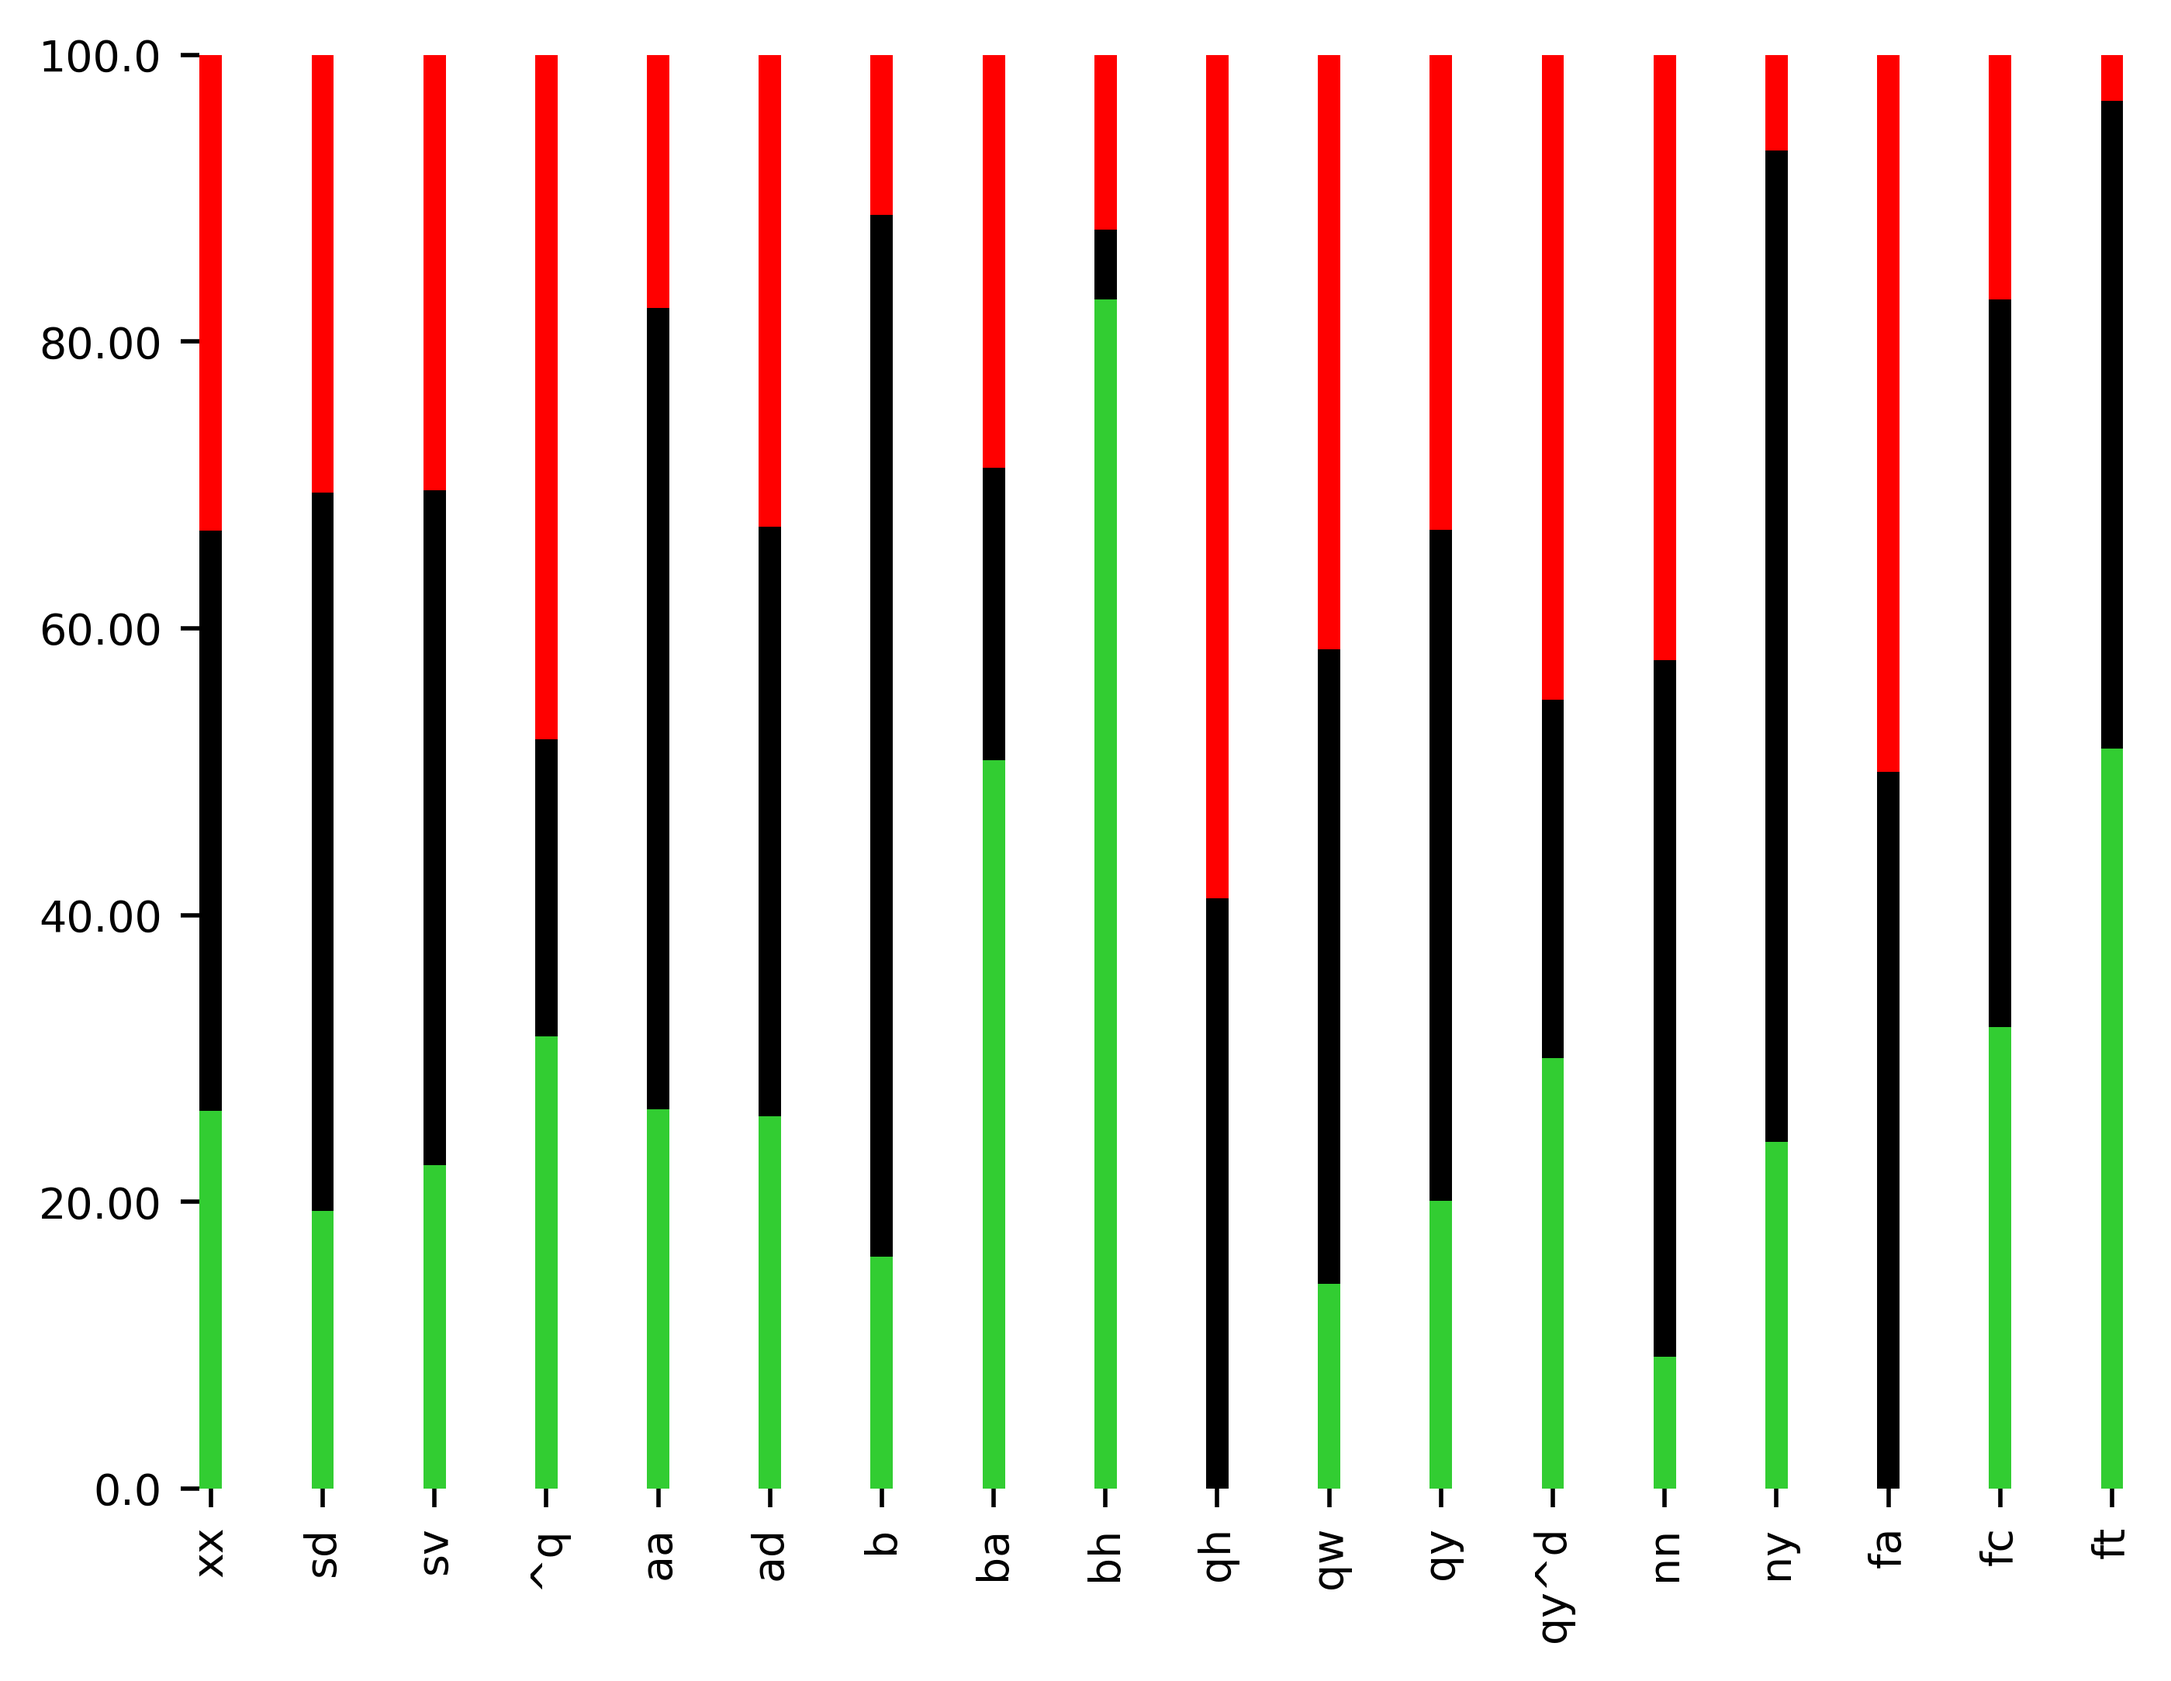
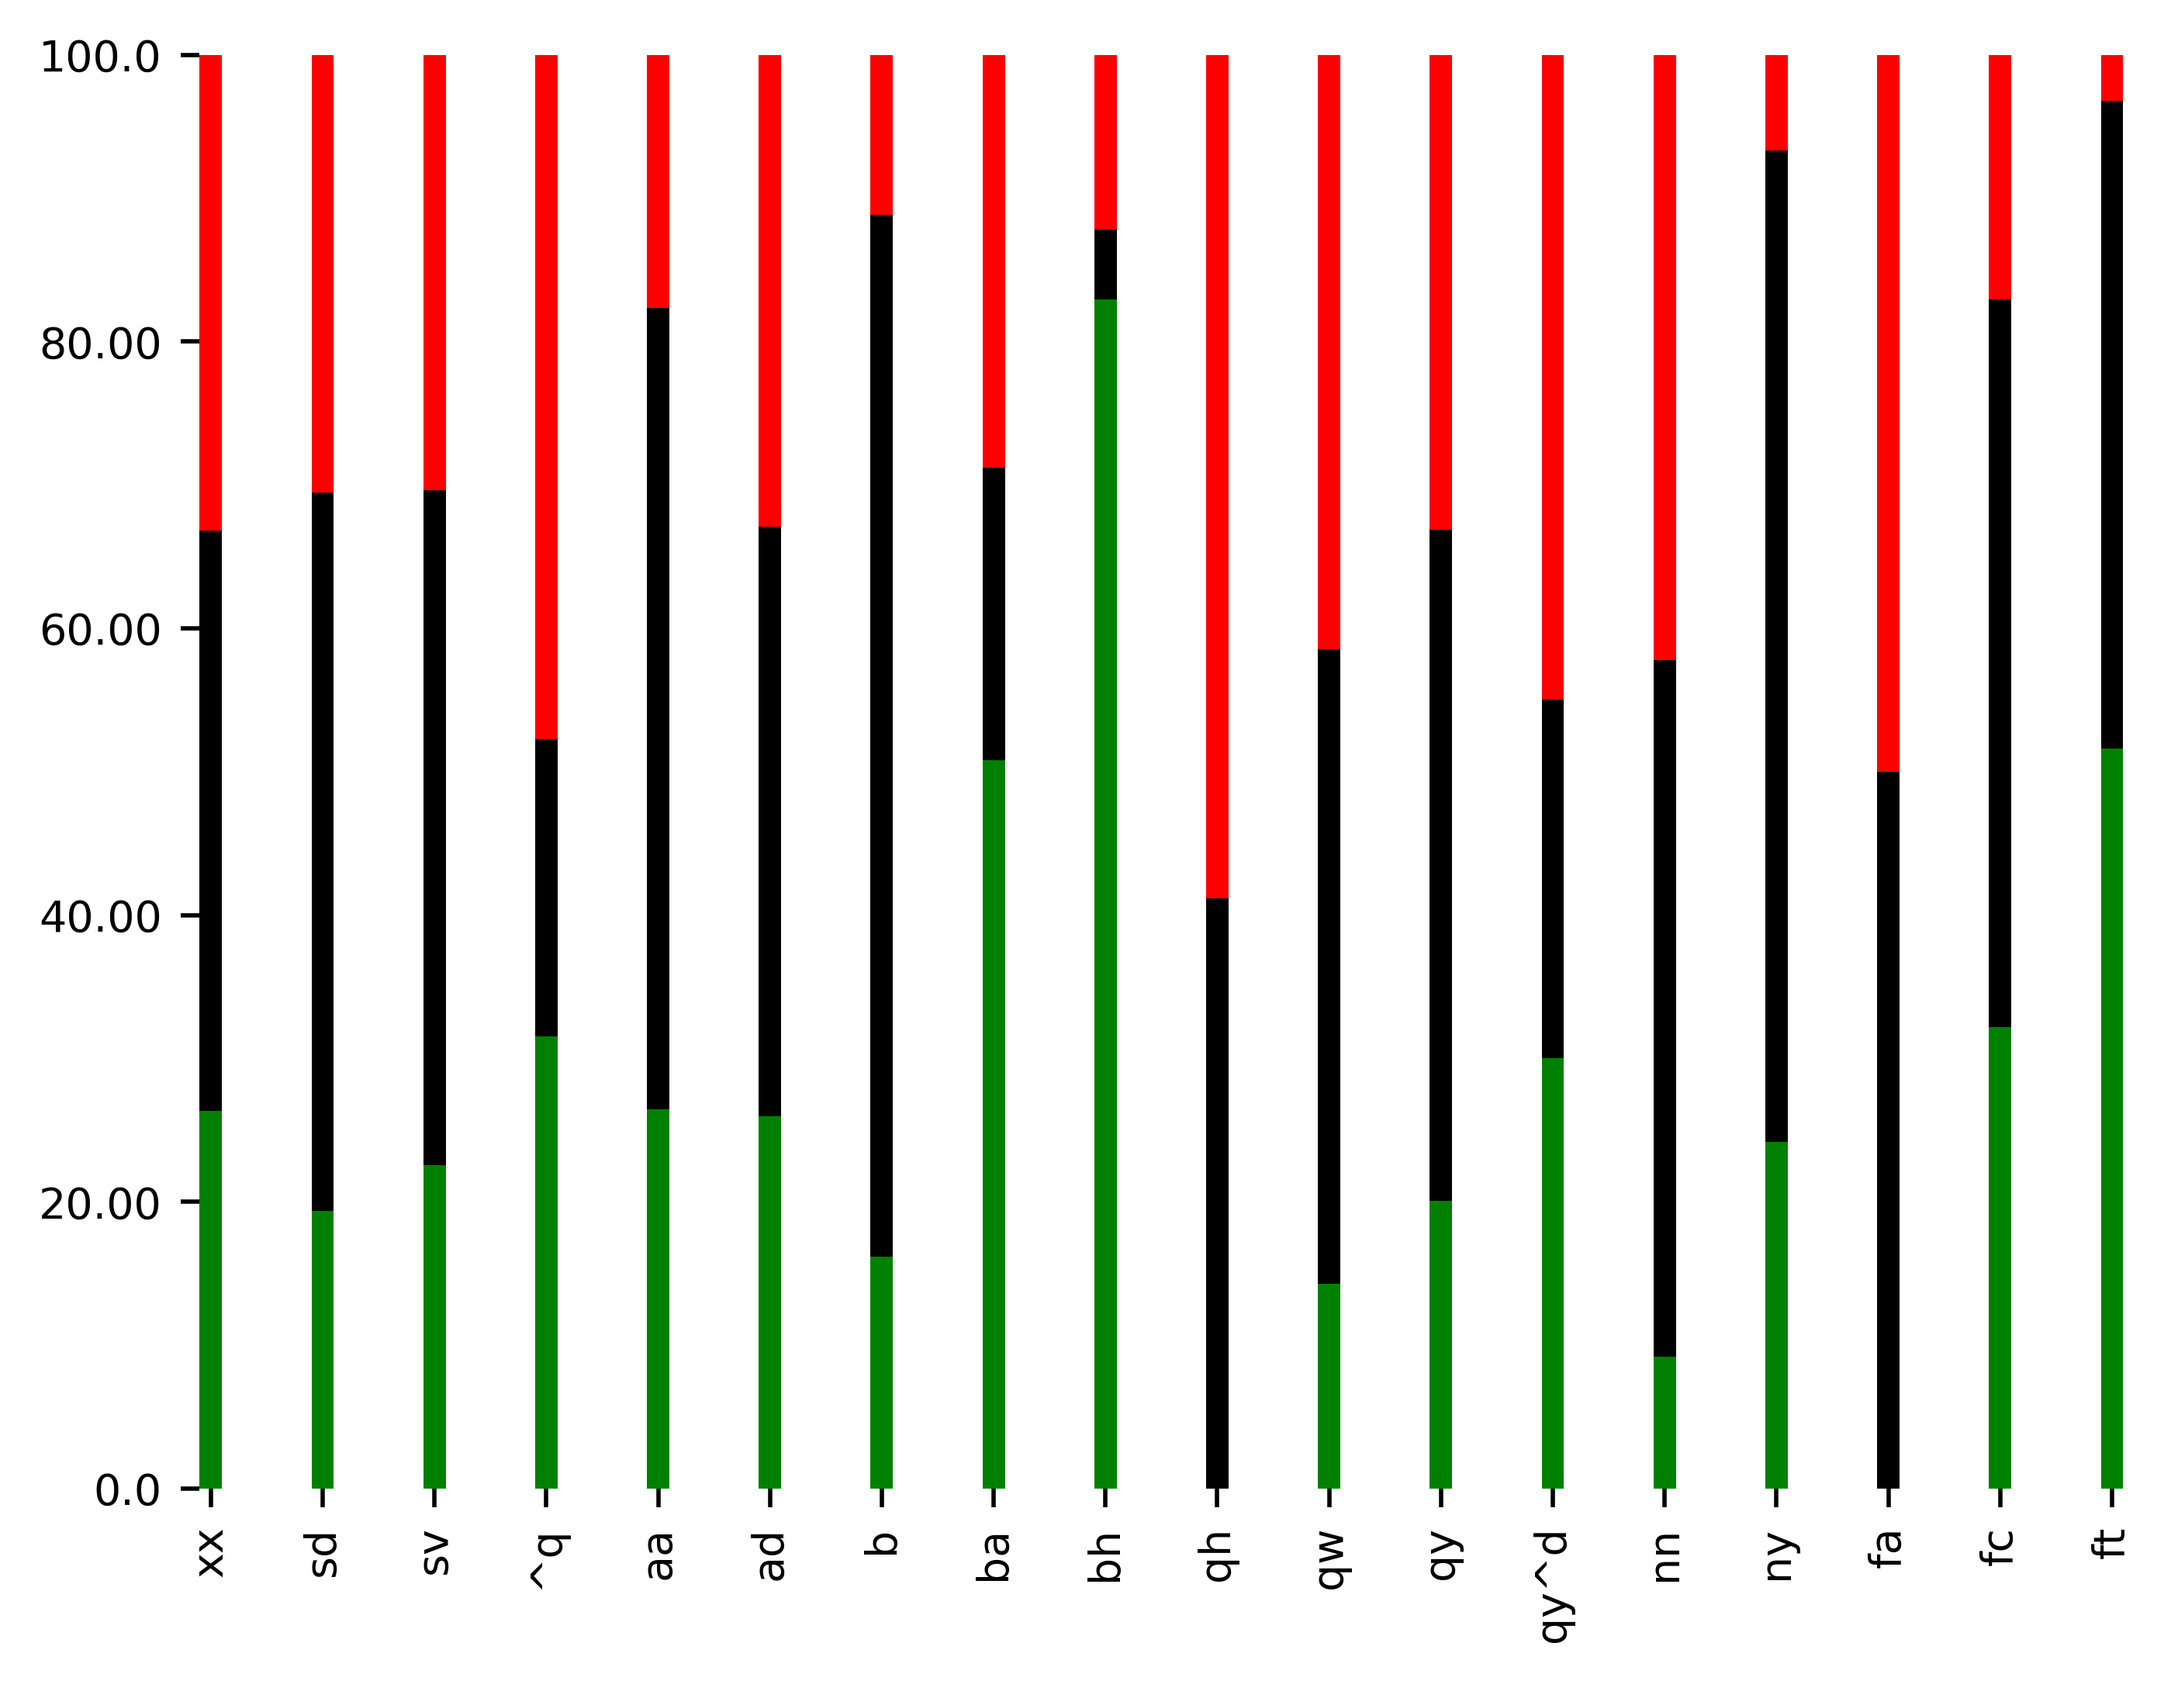
sankey graphs added to the repo

diff --git a/plot_utils/plot_functions.py b/plot_utils/plot_functions.py
@@ -128,15 +128,15 @@ def plotting_sankeys(colors_emo, emotions, selected_bars, selected_bars_normaliz
             value_norms.append(selected_bars_normalized[i][j])
             color_links.append(colors_emo[j])
     plotter_sankey(label, color, source, target, value, color_links, data +
-                   " - " + type_of + " - with real values")
+                   " - " + type_of + " - with real number of utterances")
     plotter_sankey(label, color, source, target, value_norms, color_links, data +
-                   " - " + type_of + " - with normalized values")
+                   " - " + type_of + " - with normalized number of utterances")
 
 
 def plotter_sankey(label, color, source, target, value, color_links, title):
     import plotly.graph_objects as go
     fig = go.Figure(data=[go.Sankey(
-        node=dict(pad=15, thickness=20, line=dict(color="green", width=0.), label=label, color=color),
+        node=dict(pad=3, thickness=15, line=dict(color="green", width=0.), label=label, color=color),
         link=dict(source=source, target=target, value=value, color=color_links))])
-    fig.update_layout(title_text=title, font_size=10)
+    fig.update_layout(title_text=title, font_size=14)
     fig.show()

diff --git a/read_annotated_mocap_data.py b/read_annotated_mocap_data.py
@@ -6,7 +6,7 @@ from utils.read_annotated_data import read_data
 utt_speaker, utt, utt_emotion, utt_EDAs = read_data('Annotated_EDA_data/eda_iemocap_no_utts_dataset.csv')
 colors_emo = ['Green', 'Cyan', 'Blue', 'Black', 'Gray', 'Olive', 'Mediumvioletred', 'Orange', 'Red', 'Brown']
 emotions = ['hap', 'exc', 'sur', 'neu', 'xxx', 'fea', 'sad', 'fru', 'ang']
-colors_sent = ['Limegreen', 'Black', 'Darkorange']
+colors_sent = ['Green', 'Black', 'Red']
 sentiments = ['positive', 'neutral', 'negative']
 
 tags = sorted(list(Counter(utt_EDAs).keys()))
@@ -27,13 +27,13 @@ for tag in tags:
             temp_emotion.append(utt_emotion[i])
     data_emotion = Counter(temp_emotion)
     values_emotion = []
-    for emotion in emotions[0:9]:
+    for emotion in emotions:
         values_emotion.append(data_emotion[emotion])
 
     stack_emotions_values.append(values_emotion)
 
 # save stacked bar graph for Emotion IEMOCAP
-plot_bars_plot(stack_emotions_values, emotions[0:9], colors_emo, tags,
+plot_bars_plot(stack_emotions_values, emotions, colors_emo, tags,
                test_show_plot=False, data='iemocap', type_of='emotion', plot_sankeys=True)  # , save_eps=True)
 
 print('ran read_annotated_mocap_data.py')

diff --git a/read_annotated_meld_data.py b/read_annotated_meld_data.py
@@ -7,8 +7,8 @@ utt_speaker, utt, utt_emotion, utt_EDAs, utt_sentiment = read_data('Annotated_ED
                                                                    meld_data=True)
 colors_emo = ['Green', 'Blue', 'Black', 'Olive', 'Mediumvioletred', 'Orange', 'Red', 'Brown']
 emotions = ['joy', 'surprise', 'neutral', 'fear', 'sadness', 'disgust', 'anger']
-colors_sent = ['Limegreen', 'Black', 'Red', 'White']
-sentiments = ['positive', 'neutral', 'negative', 'White']
+colors_sent = ['Green', 'Black', 'Red', 'Brown']
+sentiments = ['positive', 'neutral', 'negative']
 
 tags = sorted(list(Counter(utt_EDAs).keys()))
 
